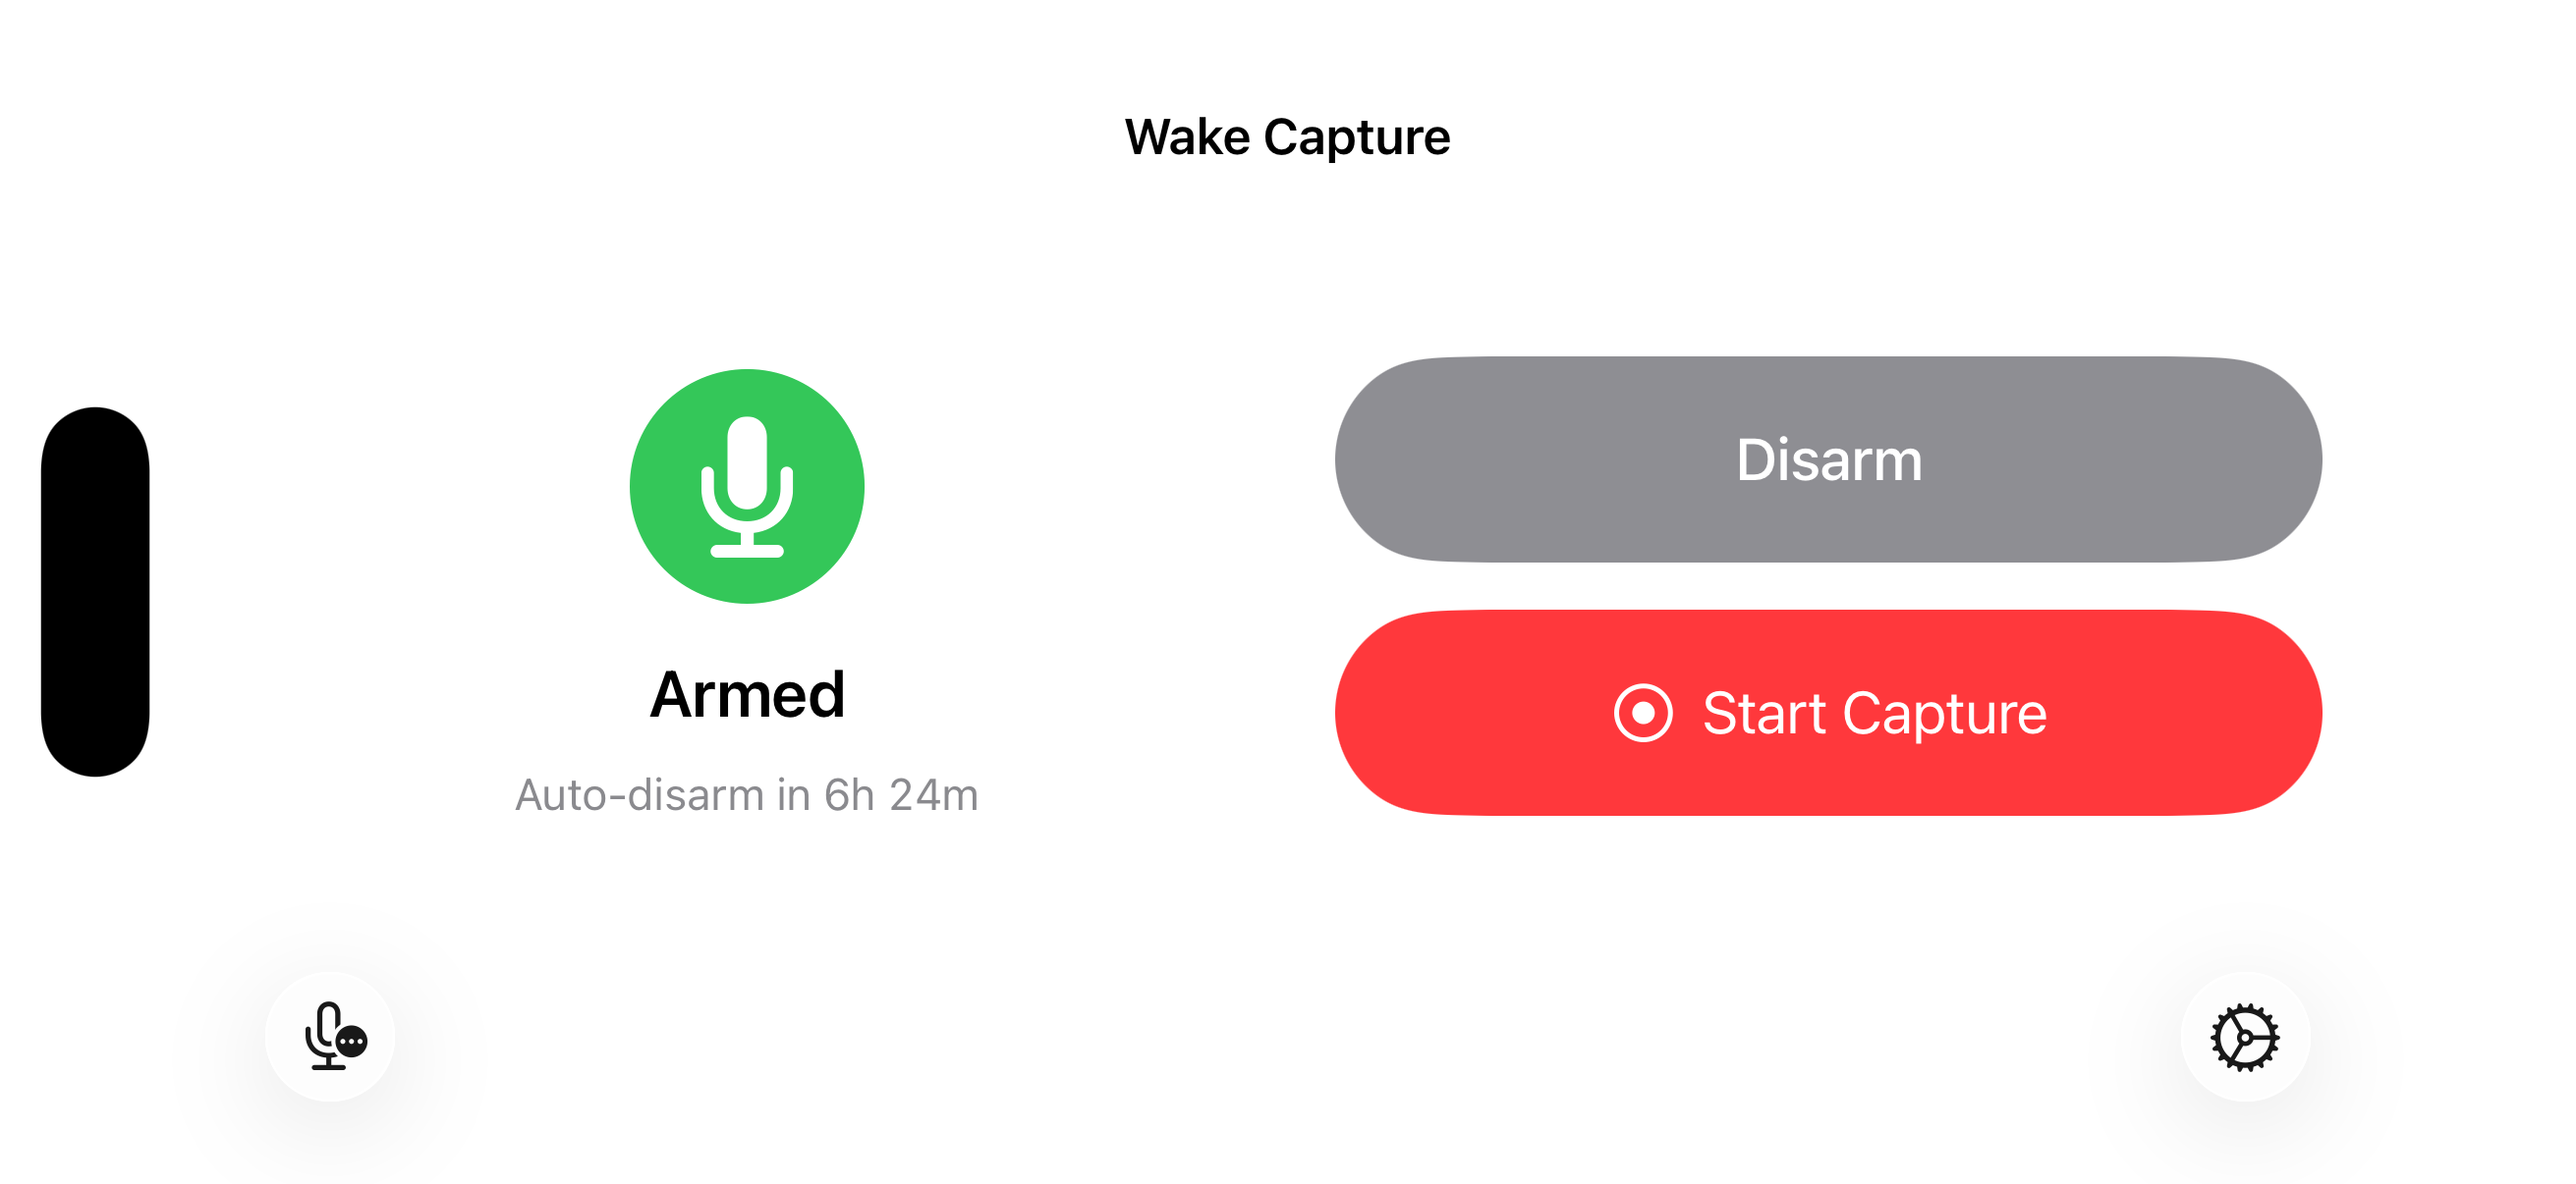
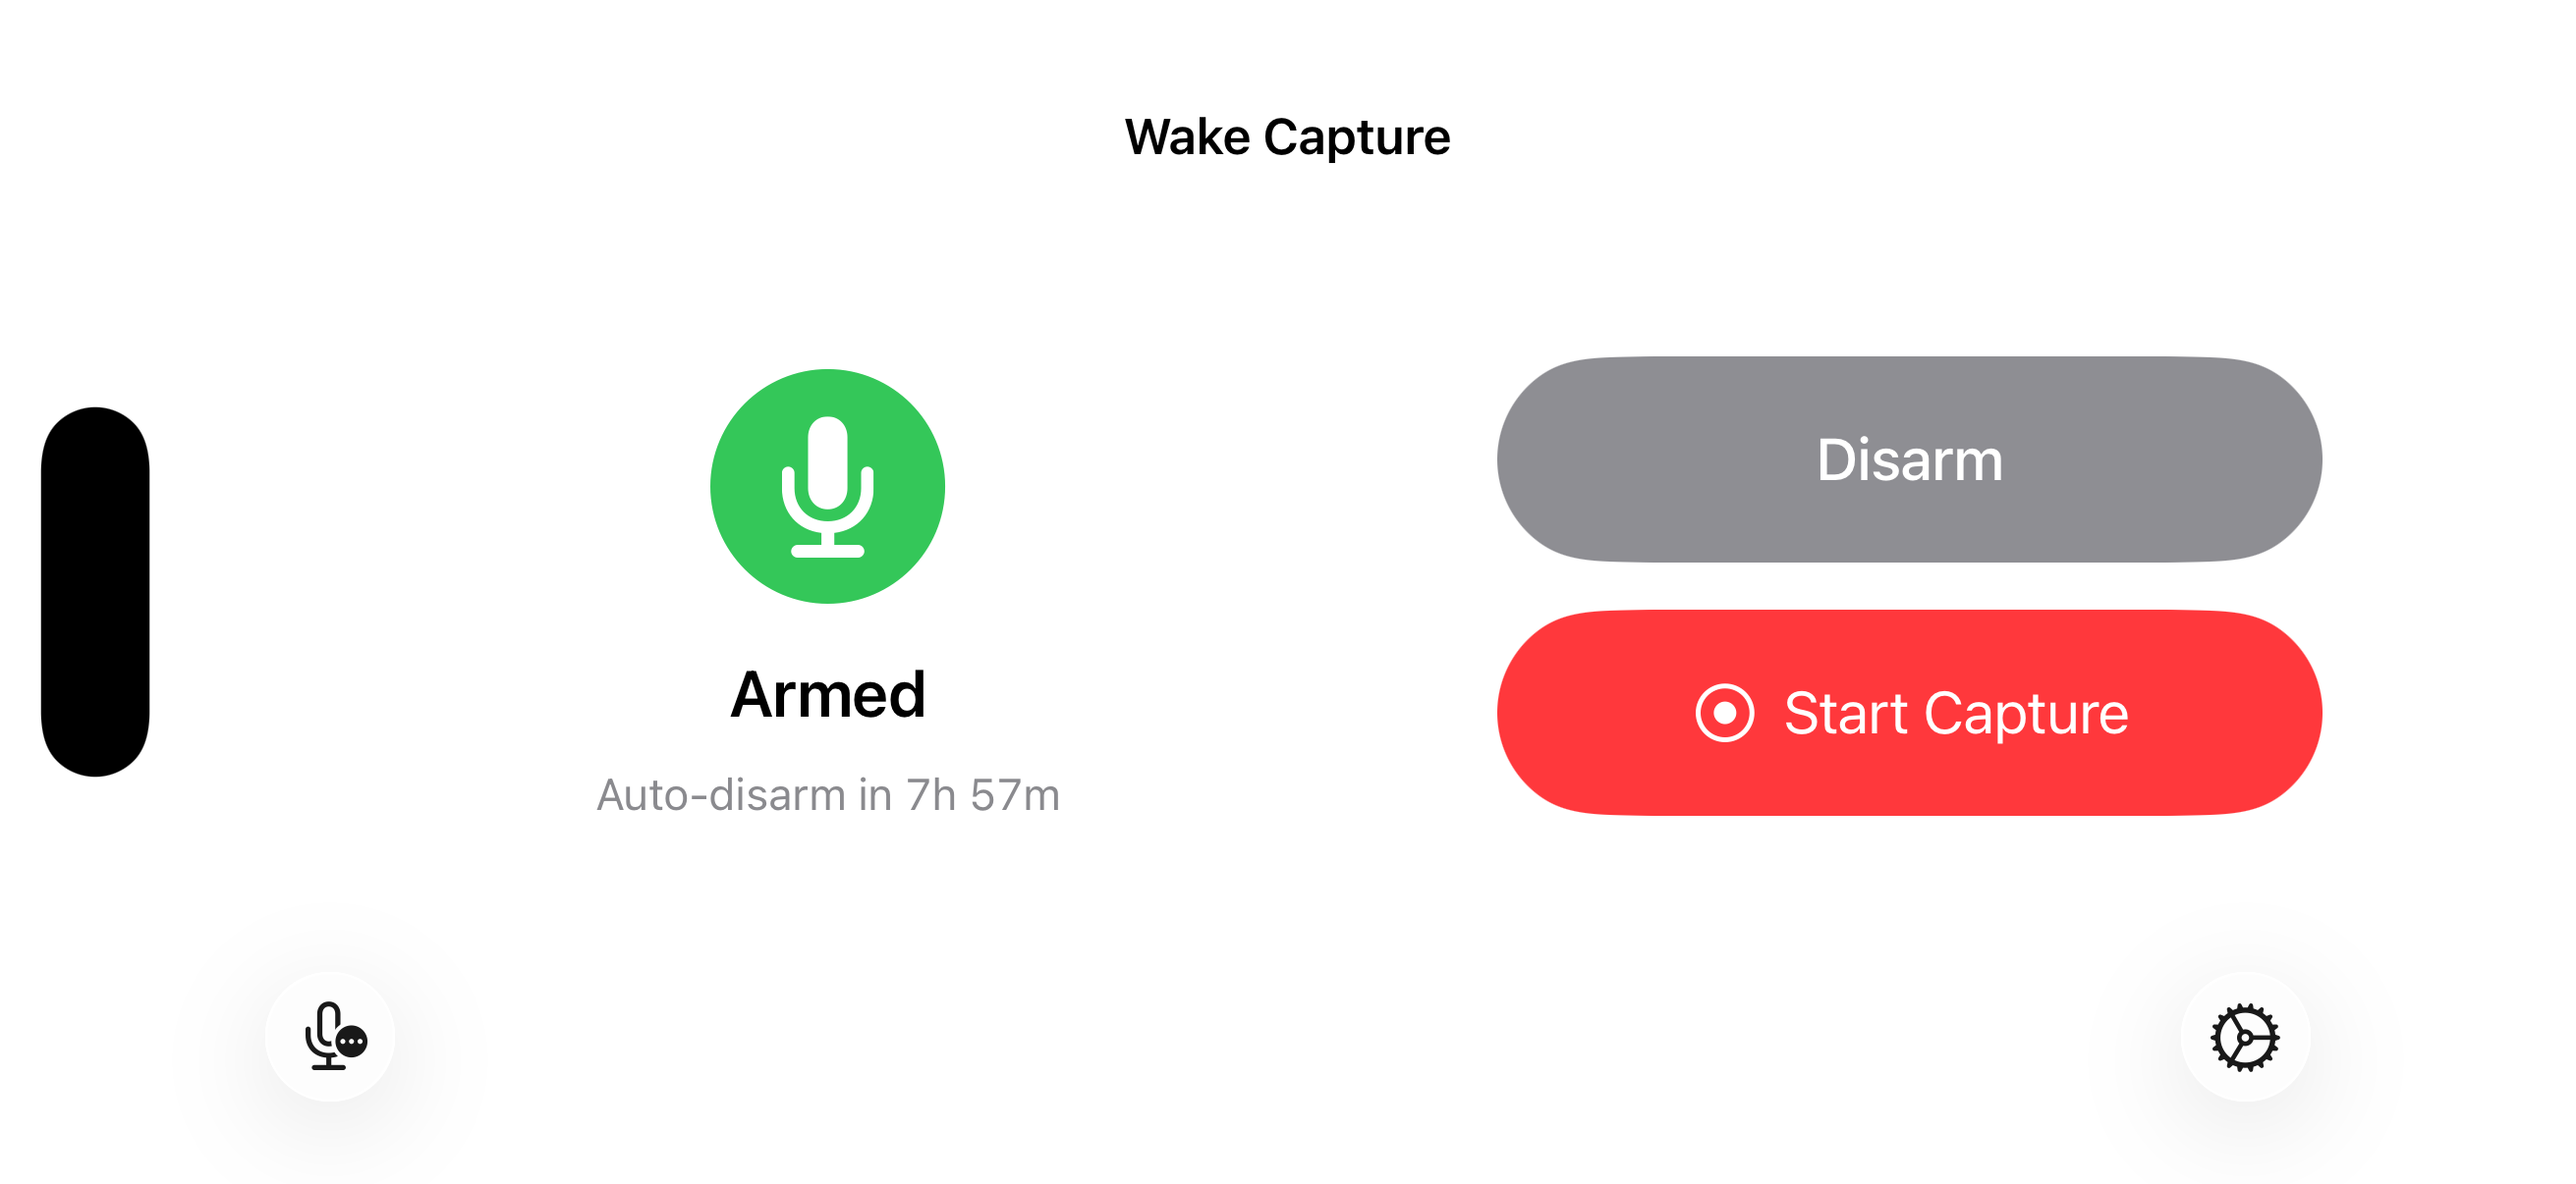
feat: support all interface orientations with adaptive SwiftUI layouts
Declare all orientations in project.yml without requiring full screen.
Adapt HomeView, RecordingView, and OnboardingView to use
verticalSizeClass for landscape-friendly HStack layouts. Update docs,
HIG report, and add landscape screenshots.

diff --git a/WakeCapture/UI/ContentView.swift b/WakeCapture/UI/ContentView.swift
@@ -141,7 +141,7 @@ struct HomeView: View {
             statusSection
                 .frame(maxWidth: .infinity)
             buttonsSection
-                .frame(maxWidth: .infinity)
+                .frame(maxWidth: 280)
         }
         .padding(.horizontal, 24)
         .frame(maxHeight: .infinity)
